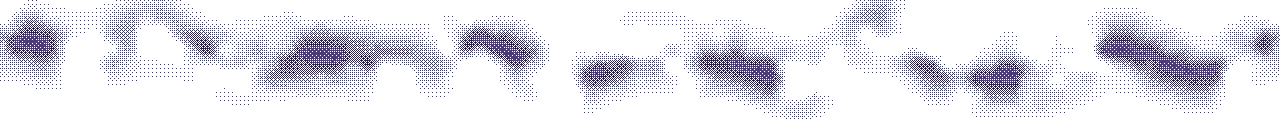
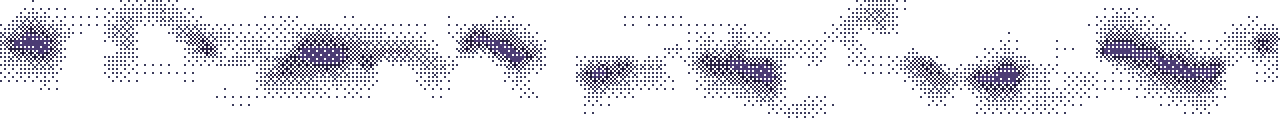
Grove mist strips in 2 px art pixels
The drifting mist strips are now drawn in 2x2 blocks (like the crown), so they move in whole art pixels and scale without shimmering. Same size, positions and speeds.

Changed region(s): [[0.0, 0.0, 1.0, 0.975], [0.5, 0.125, 0.5312, 0.15]]

diff --git a/Project_T/tools/meta_art/grove_gen.html b/Project_T/tools/meta_art/grove_gen.html
@@ -1342,13 +1342,14 @@ const GROVE_MISTS = [
   { file: "grove_mist_2.png", y: 820, h: 120, dens: .95, speed: 12, seed: 143 },
 ];
 function groveMistStrip(m) {
+  // Drawn in 2 px art pixels (like the crown), so it moves and scales without shimmering.
   const out = new Img(GW, m.h), deep = m.dens > .8;
-  for (let y = 0; y < m.h; y++) for (let x = 0; x < GW; x++) {
+  for (let y = 0; y < m.h; y += 2) for (let x = 0; x < GW; x += 2) {
     const wob = (pnoise(x, 0, 80, m.seed + 2, 16) - .5) * m.h * .5;
     const band = clamp(1 - Math.abs(y - m.h / 2 - wob) / (m.h * .42), 0, 1) ** 1.5;
     const n = pnoise(x, y, 40, m.seed, 32) * .75 + pnoise(x, y, 16, m.seed + 1, 80) * .25;
     const d = band * clamp((n - .36) * 2.6, 0, 1);
-    if (d > 0 && bay(x, y) < d * m.dens) out.set(x, y, d > .75 ? (deep ? HW.Bruise : HW.Shade) : d > .45 ? HW.Shade : HW.Dusk);
+    if (d > 0 && bay(x >> 1, y >> 1) < d * m.dens) { const c = d > .75 ? (deep ? HW.Bruise : HW.Shade) : d > .45 ? HW.Shade : HW.Dusk; out.set(x, y, c); out.set(x + 1, y, c); out.set(x, y + 1, c); out.set(x + 1, y + 1, c); }
   }
   return out;
 }

diff --git a/Project_T/tools/meta_art/grove_tree.js b/Project_T/tools/meta_art/grove_tree.js
@@ -883,13 +883,14 @@ const GROVE_MISTS = [
   { file: "grove_mist_2.png", y: 820, h: 120, dens: .95, speed: 12, seed: 143 },
 ];
 function groveMistStrip(m) {
+  // Drawn in 2 px art pixels (like the crown), so it moves and scales without shimmering.
   const out = new Img(GW, m.h), deep = m.dens > .8;
-  for (let y = 0; y < m.h; y++) for (let x = 0; x < GW; x++) {
+  for (let y = 0; y < m.h; y += 2) for (let x = 0; x < GW; x += 2) {
     const wob = (pnoise(x, 0, 80, m.seed + 2, 16) - .5) * m.h * .5;
     const band = clamp(1 - Math.abs(y - m.h / 2 - wob) / (m.h * .42), 0, 1) ** 1.5;
     const n = pnoise(x, y, 40, m.seed, 32) * .75 + pnoise(x, y, 16, m.seed + 1, 80) * .25;
     const d = band * clamp((n - .36) * 2.6, 0, 1);
-    if (d > 0 && bay(x, y) < d * m.dens) out.set(x, y, d > .75 ? (deep ? HW.Bruise : HW.Shade) : d > .45 ? HW.Shade : HW.Dusk);
+    if (d > 0 && bay(x >> 1, y >> 1) < d * m.dens) { const c = d > .75 ? (deep ? HW.Bruise : HW.Shade) : d > .45 ? HW.Shade : HW.Dusk; out.set(x, y, c); out.set(x + 1, y, c); out.set(x, y + 1, c); out.set(x + 1, y + 1, c); }
   }
   return out;
 }
